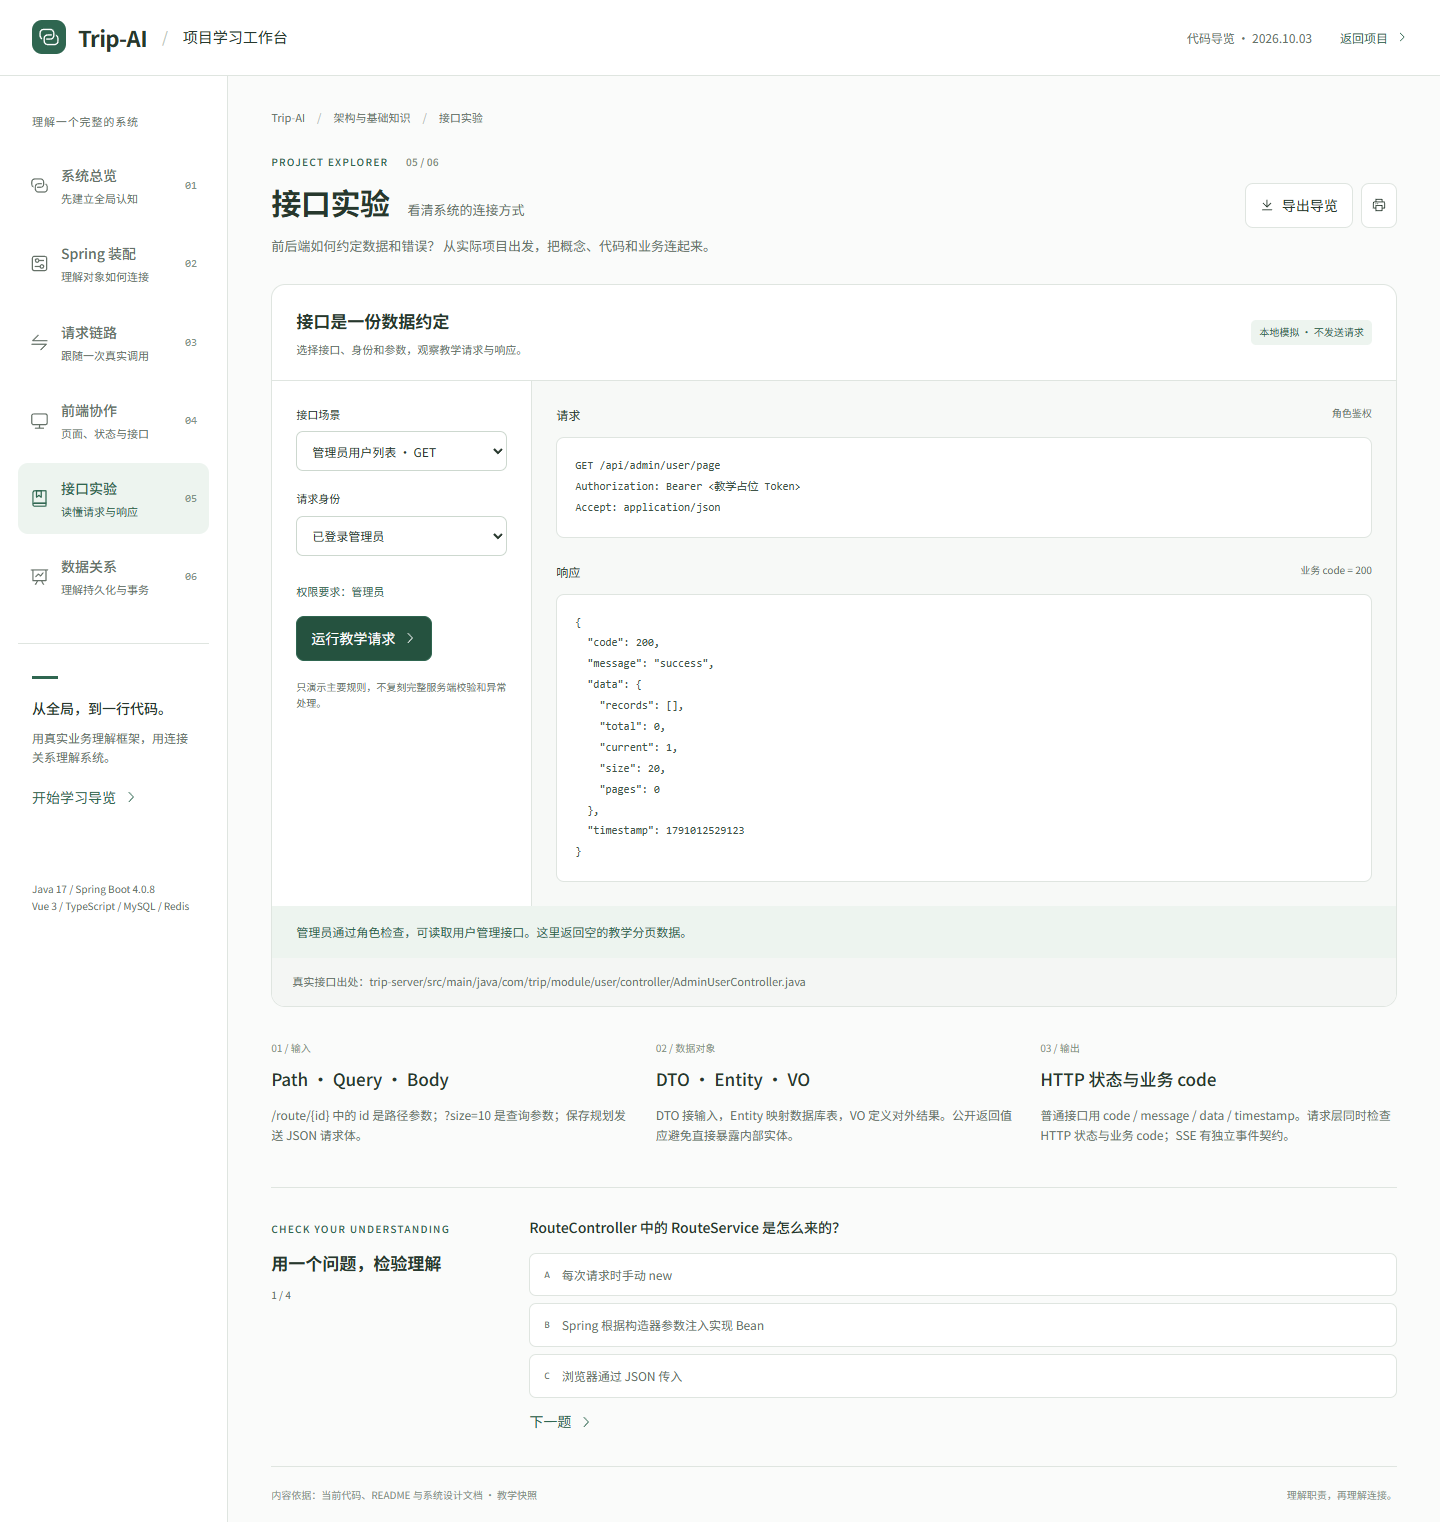
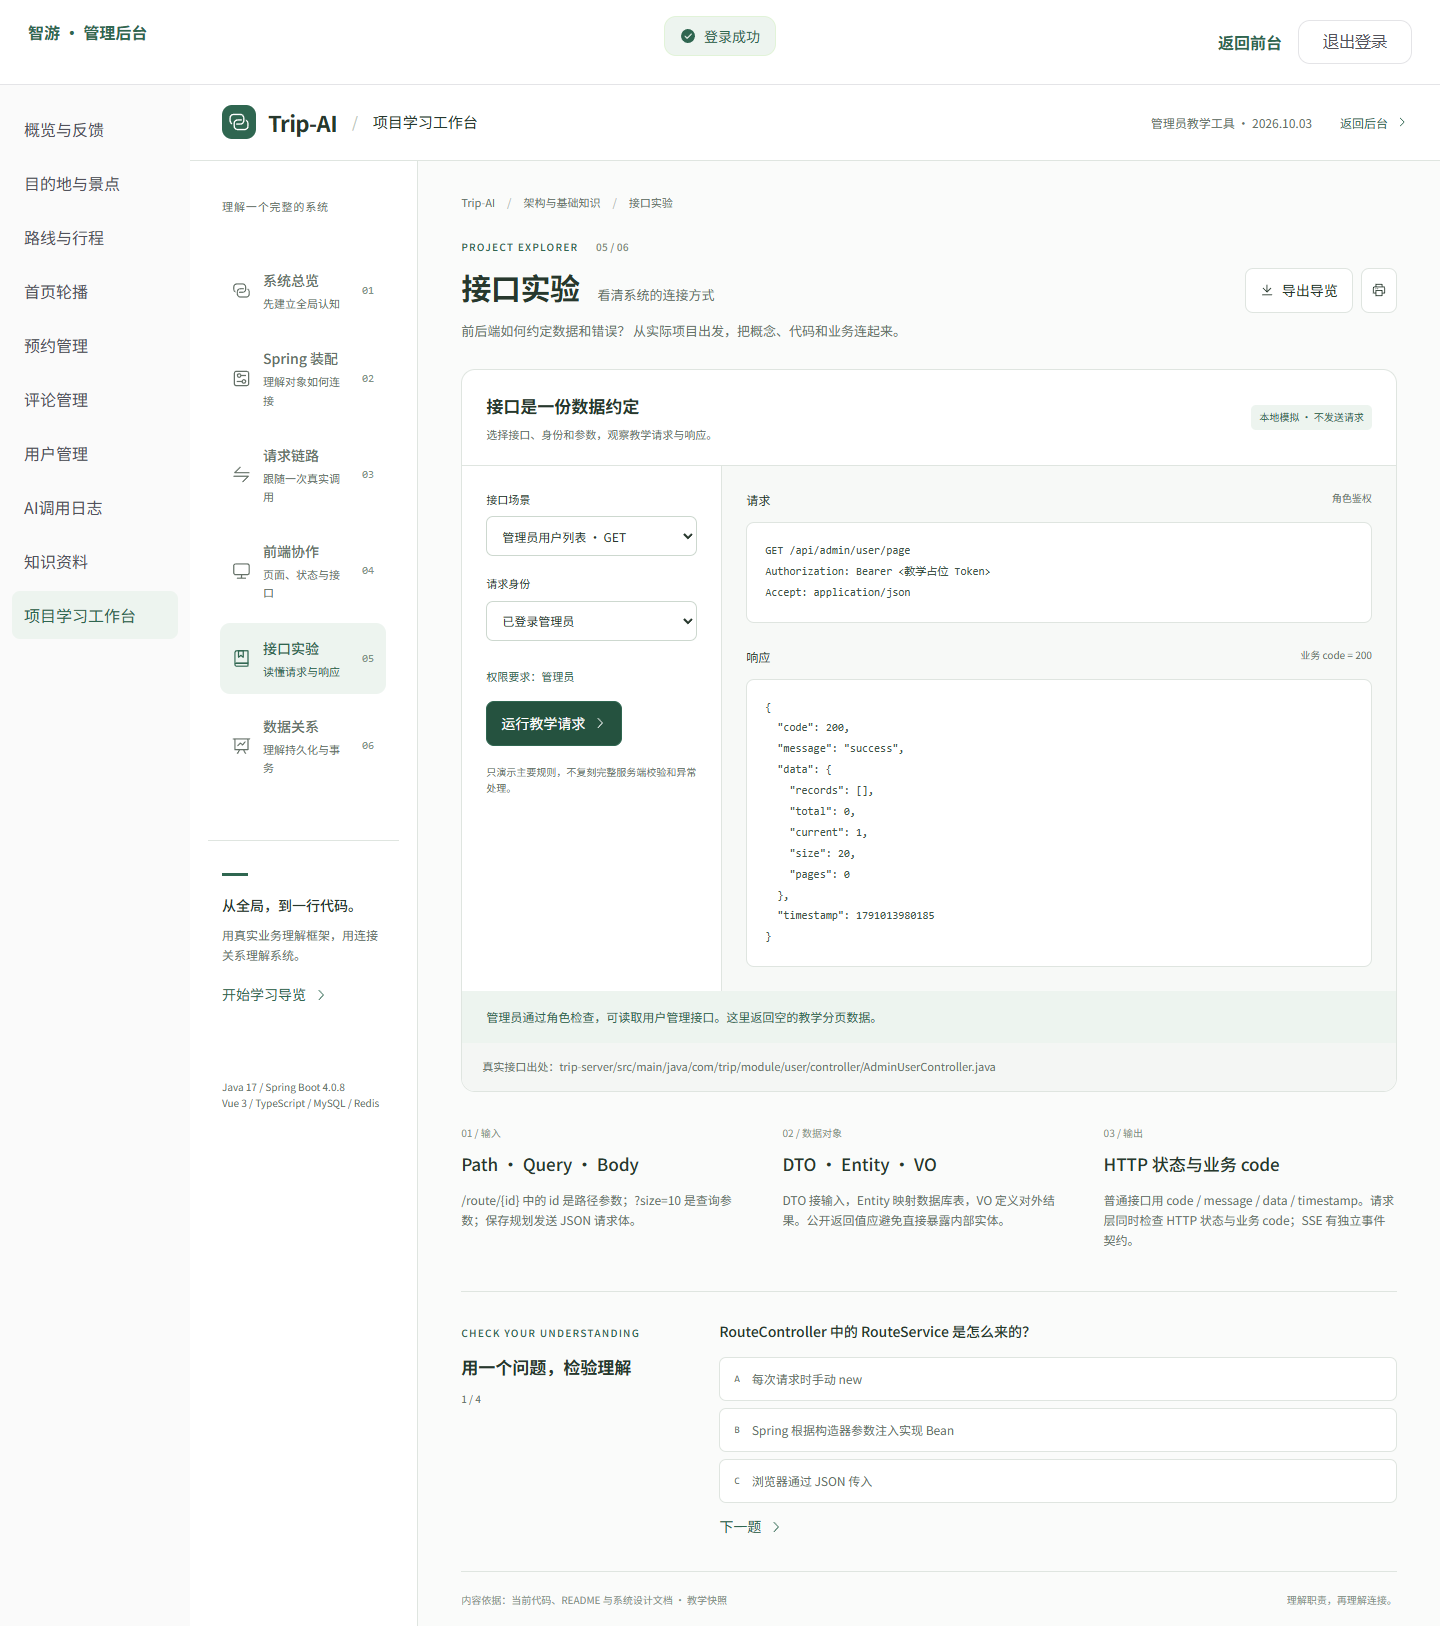
fix: move learning workbench into admin area

diff --git a/trip-web/src/views/workbench/Workbench.vue b/trip-web/src/views/workbench/Workbench.vue
@@ -12,7 +12,7 @@ const selected = ref('service')
 const graphNodes = computed(() => current.value.id === 'spring' ? springNodes : current.value.id === 'frontend' ? frontendNodes : current.value.id === 'data' ? dataNodes : overviewNodes)
 const graphEdges = computed(() => current.value.id === 'spring' ? springEdges : current.value.id === 'frontend' ? frontendEdges : current.value.id === 'data' ? dataEdges : overviewEdges)
 const node = computed(() => graphNodes.value.find(n => n.id === selected.value) || graphNodes.value[0]!)
-function navigate(id: string) { void router.replace({ path: '/workbench', query: { view: id } }) }
+function navigate(id: string) { void router.replace({ path: route.path, query: { view: id } }) }
 watch(() => current.value.id, () => { selected.value = graphNodes.value[0]!.id; questionIndex.value = 0; choice.value = null; tourOpen.value = false })
 const springStep = ref(0)
 const springLesson = computed(() => springSteps[springStep.value]!)
@@ -84,8 +84,8 @@ function printGuide() { window.print() }
 <template>
   <div class="workbench">
     <header class="wb-header">
-      <router-link class="brand" to="/"><span class="brand-mark"><el-icon><Connection /></el-icon></span><strong>Trip-AI</strong><span class="brand-divider">/</span><span>项目学习工作台</span></router-link>
-      <div class="header-actions"><span class="snapshot">代码导览 · 2026.10.03</span><router-link to="/">返回项目 <el-icon><ArrowRight /></el-icon></router-link></div>
+      <router-link class="brand" to="/admin"><span class="brand-mark"><el-icon><Connection /></el-icon></span><strong>Trip-AI</strong><span class="brand-divider">/</span><span>项目学习工作台</span></router-link>
+      <div class="header-actions"><span class="snapshot">管理员教学工具 · 2026.10.03</span><router-link to="/admin">返回后台 <el-icon><ArrowRight /></el-icon></router-link></div>
     </header>
     <div class="wb-layout">
       <aside class="sidebar">

diff --git a/trip-web/src/router/index.ts b/trip-web/src/router/index.ts
@@ -6,7 +6,6 @@ import UserLayout from '@/layouts/UserLayout.vue'
  * 第 2 批范围：Home / RouteList / RouteDetail / DestinationList / PlanList / PlanEditor / Favorites / Bookings / Login / Register
  */
 export const userRoutes: RouteRecordRaw[] = [
-  { path: '/workbench', name: 'Workbench', component: () => import('@/views/workbench/Workbench.vue'), meta: { title: '项目学习工作台', public: true } },
   {
     path: '/',
     component: UserLayout,
@@ -40,6 +39,7 @@ export const userRoutes: RouteRecordRaw[] = [
       { path: 'routes', component: () => import('@/views/admin/Routes.vue'), meta: { title: '路线与行程' } },
       { path: 'banners', component: () => import('@/views/admin/Banners.vue'), meta: { title: '首页轮播' } },
       { path: 'ai/knowledge', component: () => import('@/views/admin/Knowledge.vue'), meta: { title: '知识资料' } },
+      { path: 'workbench', name: 'AdminWorkbench', component: () => import('@/views/workbench/Workbench.vue'), meta: { title: '项目学习工作台' } },
       ...(['bookings','comments','users','logs'] as const).map(kind=>({path:kind,component:()=>import('@/views/admin/Operations.vue'),props:{kind},meta:{title:{bookings:'预约管理',comments:'评论管理',users:'用户管理',logs:'AI调用日志'}[kind]}})),
     ],
   },

diff --git a/trip-web/src/layouts/AdminLayout.vue b/trip-web/src/layouts/AdminLayout.vue
@@ -5,7 +5,7 @@ import { ElMessageBox } from 'element-plus'
 import { useUserStore } from '@/store/user'
 const router=useRouter(),user=useUserStore(),leaving=ref(false)
 async function logout(){if(leaving.value)return;try{await ElMessageBox.confirm('确定退出管理后台吗？','退出登录');leaving.value=true;await user.logout();await router.replace('/login')}catch{}finally{leaving.value=false}}
-const links=[['/admin','概览与反馈'],['/admin/destinations','目的地与景点'],['/admin/routes','路线与行程'],['/admin/banners','首页轮播'],['/admin/bookings','预约管理'],['/admin/comments','评论管理'],['/admin/users','用户管理'],['/admin/logs','AI调用日志'],['/admin/ai/knowledge','知识资料']]
+const links=[['/admin','概览与反馈'],['/admin/destinations','目的地与景点'],['/admin/routes','路线与行程'],['/admin/banners','首页轮播'],['/admin/bookings','预约管理'],['/admin/comments','评论管理'],['/admin/users','用户管理'],['/admin/logs','AI调用日志'],['/admin/ai/knowledge','知识资料'],['/admin/workbench','项目学习工作台']]
 </script>
 <template>
   <div class="admin-layout">

diff --git a/trip-web/src/components/common/AppHeader.vue b/trip-web/src/components/common/AppHeader.vue
@@ -55,7 +55,6 @@ function handleCommand(cmd: string): void {
         <router-link to="/travel-assistant" class="nav-link" :class="{ 'router-link-active': assistantActive }">旅行助手</router-link>
         <router-link to="/knowledge" class="nav-link">旅行资料</router-link>
         <router-link to="/plan" class="nav-link">我的规划</router-link>
-        <router-link to="/workbench" class="nav-link">学习工作台</router-link>
       </nav>
 
       <div class="app-header__user">

diff --git a/docs/dev/项目学习工作台.md b/docs/dev/项目学习工作台.md
@@ -1,6 +1,6 @@
 # Trip-AI 项目学习工作台
 
-2026-10-03。入口 `/workbench`，主导航增加“学习工作台”。这是面向项目介绍、学习和答辩的公开前端页面，无需登录。以当前实现为主，配合系统设计解释目标与交付边界。
+2026-10-03。管理员后台入口 `/admin/workbench`，后台导航增加“项目学习工作台”。工作台不出现在用户端页面和导航，访问受现有管理员路由守卫保护。以当前实现为主，配合系统设计解释目标与交付边界。
 
 ## 工作台内容
 
@@ -13,7 +13,7 @@
 | 接口实验 | 可修改身份/参数的请求响应面板 | Path/Query/Body、DTO/Entity/VO、R<T>、401/403/参数错误、分页上限 |
 | 数据关系 | 主要实体关系图、提交/回滚模拟 | 私人规划三层数据、目录路线、知识分片、事务、MySQL/Redis 分工 |
 
-所有连接图可用键盘选择节点。窄屏将节点纵向排布，并显示真实关系清单，避免纵向节点顺序被误读为调用顺序。学习视角保存在 URL 的 `view` 查询参数，可复制具体视角地址；刷新时保留视角。导出导览生成 Markdown，打印按钮打印当前视角。
+所有连接图可用键盘选择节点。窄屏将节点纵向排布，并显示真实关系清单，避免纵向节点顺序被误读为调用顺序。学习视角保存在 URL 的 `view` 查询参数，可在管理员后台复制具体视角地址；刷新时保留视角。导出导览生成 Markdown，打印按钮打印当前视角。
 
 ## 内容依据与维护
 
@@ -32,15 +32,15 @@
 ## 验证结果
 
 - `npm run build`：vue-tsc 与 Vite 生产构建通过。既有全站主包超过 500kB 提示仍存在；工作台按路由懒加载。
-- `node scripts/workbench_browser.cjs`：真实 Edge 浏览器 **74/74**。检查公开入口、节点说明与代码、导览下载、缺失/冲突 Bean、构造器说明、四个请求回放、前端四态、分页上限/空结果、401/403/DTO 错误、模拟成功、事务提交/回滚、答题反馈、视角刷新保留，以及现有路线页的共享导航五档宽度与手机进入工作台。
+- `node scripts/workbench_browser.cjs`：真实 Edge 浏览器 **76/76**。检查普通用户端没有工作台导航，`/workbench` 不再注册；管理员登录后可从 `/admin/workbench` 进入，节点说明、四个请求回放、前端四态、接口错误模拟、事务、自测、导出和五档宽度均通过。
 - 六视角分别在 1440 / 1024 / 768 / 390 / 320px 检查，无页面横向溢出；检查手机关系清单。浏览器未处理异常 0，工作台业务 API 请求 0。
-- 初次测试 4/5：测试定位器将导航标题与描述拼成无空格正则，无法匹配可访问名称。改为在 nav 内匹配实际标题后 66/66。补共享导航时两次 65/67：一次未等待懒加载页挂载，另一次在手机宽度查询隐藏的导航链接；脚本等待导航挂载、先在桌面查询，再打开手机菜单验证后最终 74/74。以上是验收脚本定位/等待问题，未发现相应页面故障。
+- 原公开入口版本曾有定位器和等待问题，修正后为 74/74。权限调整后脚本改为登录管理员并验证后台入口；最终 76/76。旧的“公开入口/用户端共享导航”检查已改为“公开入口不存在、管理员入口存在”，避免把过期产品要求当成通过条件。
 - 没有创建测试账号、模型请求、MySQL/Redis 数据或需要清理的业务夹具；不重跑无关后端验收。实际后端服务可用性、付费模型质量和生产部署不是本次验收范围。
 
 证据：[验收结果](evidence/workbench/results.json)、[总览桌面](evidence/workbench/overview-desktop.png)、[Spring 桌面](evidence/workbench/spring-desktop.png)、[Spring 手机](evidence/workbench/spring-mobile.png)、[接口实验](evidence/workbench/api-desktop.png)、[导出样本](evidence/workbench/exported-guide.md)。
 
 ## 本地打开与分享
 
-已有 Vite 5173 服务可直接访问 `http://127.0.0.1:5173/workbench`。未启动时，从 `trip-web` 运行 `npm run dev -- --host 127.0.0.1`。无需为工作台启动 MySQL、Redis 或后端，依赖已安装时即可预览。
+已有 Vite 5173 服务启动后，管理员登录即可访问 `http://127.0.0.1:5173/admin/workbench`。未启动时，从 `trip-web` 运行 `npm run dev -- --host 127.0.0.1`；完整后台登录需要后端、MySQL 和 Redis，工作台自身的教学实验不会调用业务 API。
 
-举例：`/workbench?view=spring` 直接打开 Spring 视角，`/workbench?view=api` 直接打开接口实验。localhost 地址只供本机访问；分享给其他人时使用同一前端实际部署地址。生产托管需为 `/workbench` 和现有 SPA 路由配置 index.html 回退。本批只新增前端功能，无 SQL 迁移、后端接口变动或新增依赖。
+举例：`/admin/workbench?view=spring` 打开 Spring 视角，`/admin/workbench?view=api` 打开接口实验。未登录或非管理员会被现有守卫送往登录页或前台。生产托管需为 `/admin/workbench` 和现有 SPA 路由配置 index.html 回退。本批只调整前端路由与后台导航，无 SQL 迁移、后端接口变动或新增依赖。

diff --git a/SESSION.md b/SESSION.md
@@ -1,10 +1,10 @@
 # Session：项目学习工作台
 
-更新：2026-10-03。用户要求依据整体设计制作理解 Spring 装配、前后端与接口的工作台。新增公开页面 `/workbench`，导航提供“学习工作台”；六个视角覆盖总览、Spring、请求回放、前端、接口实验与数据关系。
+更新：2026-10-03。用户要求工作台只放在管理员后台，不出现在实际用户网页。工作台现位于 `/admin/workbench`，后台导航提供入口；用户端路由和共享导航已移除，现有管理员路由守卫保护访问。六个视角覆盖总览、Spring、请求回放、前端、接口实验与数据关系。
 
 - 工作台包含可点击连接图、代码出处、五步装配讲解、四个业务请求回放、前端四态、接口身份/参数实验、事务提交/回滚、知识自测、Markdown 导出与当前视角打印。URL 可保留和分享学习视角。
 - 基于当前代码与设计文档整理，明确已有能力与目标边界；Jev 未接入、模型 token 流/向量/生成式 RAG/运营大屏等待实现。教学实验仅浏览器本地运行，无业务 API 请求、模型调用或数据库写入。
-- vue-tsc/Vite 构建通过，既有大包提示保留；真实 Edge 74/74，包括六视角五档宽度 320–1440px、主要交互与导出、共享导航及手机入口，未处理错误 0。脚本定位失败原因及完整边界见[说明与验收](docs/dev/项目学习工作台.md)，[证据](docs/dev/evidence/workbench/results.json)。
+- vue-tsc/Vite 构建通过，既有大包提示保留；权限调整后的浏览器验收 76/76，覆盖普通用户端不暴露入口、管理员登录/后台入口、六视角五档宽度 320–1440px、主要交互与导出，结果见[说明与验收](docs/dev/项目学习工作台.md)和[证据](docs/dev/evidence/workbench/results.json)。
 - 本批使用 `codex/project-workbench`，按独立分支流程提交；用户原有 docs/README.md 修改、实训报告及答辩材料保留，不混入本批。无后端变动、新依赖或 SQL 迁移。不自动合并 main，发布状态以 Git/PR 核对为准。
 
 ---

diff --git a/README.md b/README.md
@@ -10,7 +10,7 @@
 
 ## 当前进度
 
-- [项目学习工作台](docs/dev/项目学习工作台.md)：访问 `/workbench`（无需登录），通过连接图、代码导览、请求回放与本地实验理解 Spring 装配、前后端、接口和数据关系。提供 Markdown 导出与打印，明确当前实现和设计目标；真实浏览器 74 项检查通过。
+- [项目学习工作台](docs/dev/项目学习工作台.md)：管理员从 `/admin/workbench` 进入，通过连接图、代码导览、请求回放与本地实验理解 Spring 装配、前后端、接口和数据关系。工作台不出现在用户端导航，实际访问需管理员登录；权限调整后的真实浏览器 76 项检查通过。
 
 2026-09-29已记录[基础功能基线 v0.1.0-baseline](docs/releases/v0.1.0-baseline.md)：核心基础业务闭环已交付，未完成项明确列出。[GitHub Release](https://github.com/Admin0626/Trip-Ai/releases/tag/v0.1.0-baseline)保存固定版本；后续新功能在独立`codex/*`分支开发并推送，验收后通过PR融合main，见[分支流程](docs/dev/Git分支与合并流程.md)。
 
